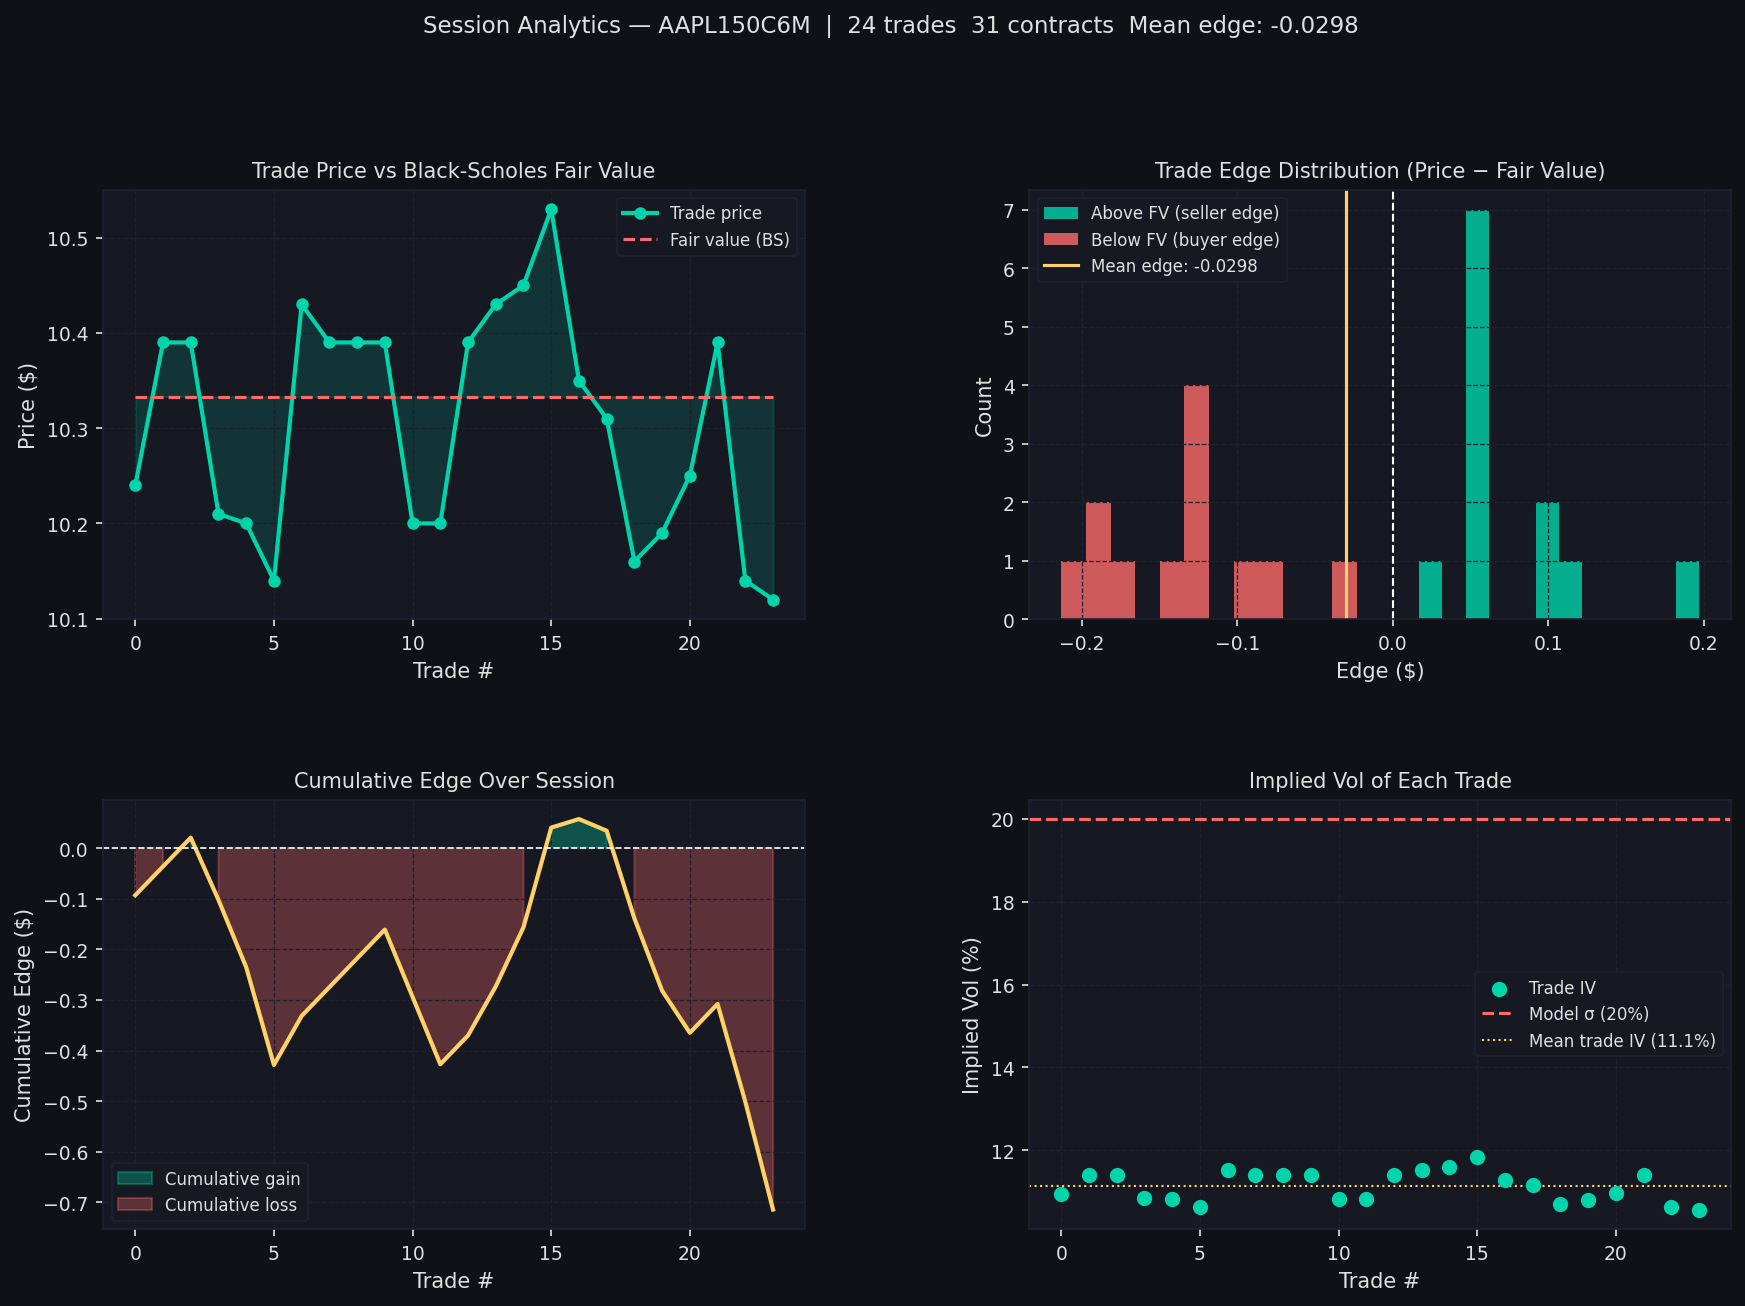
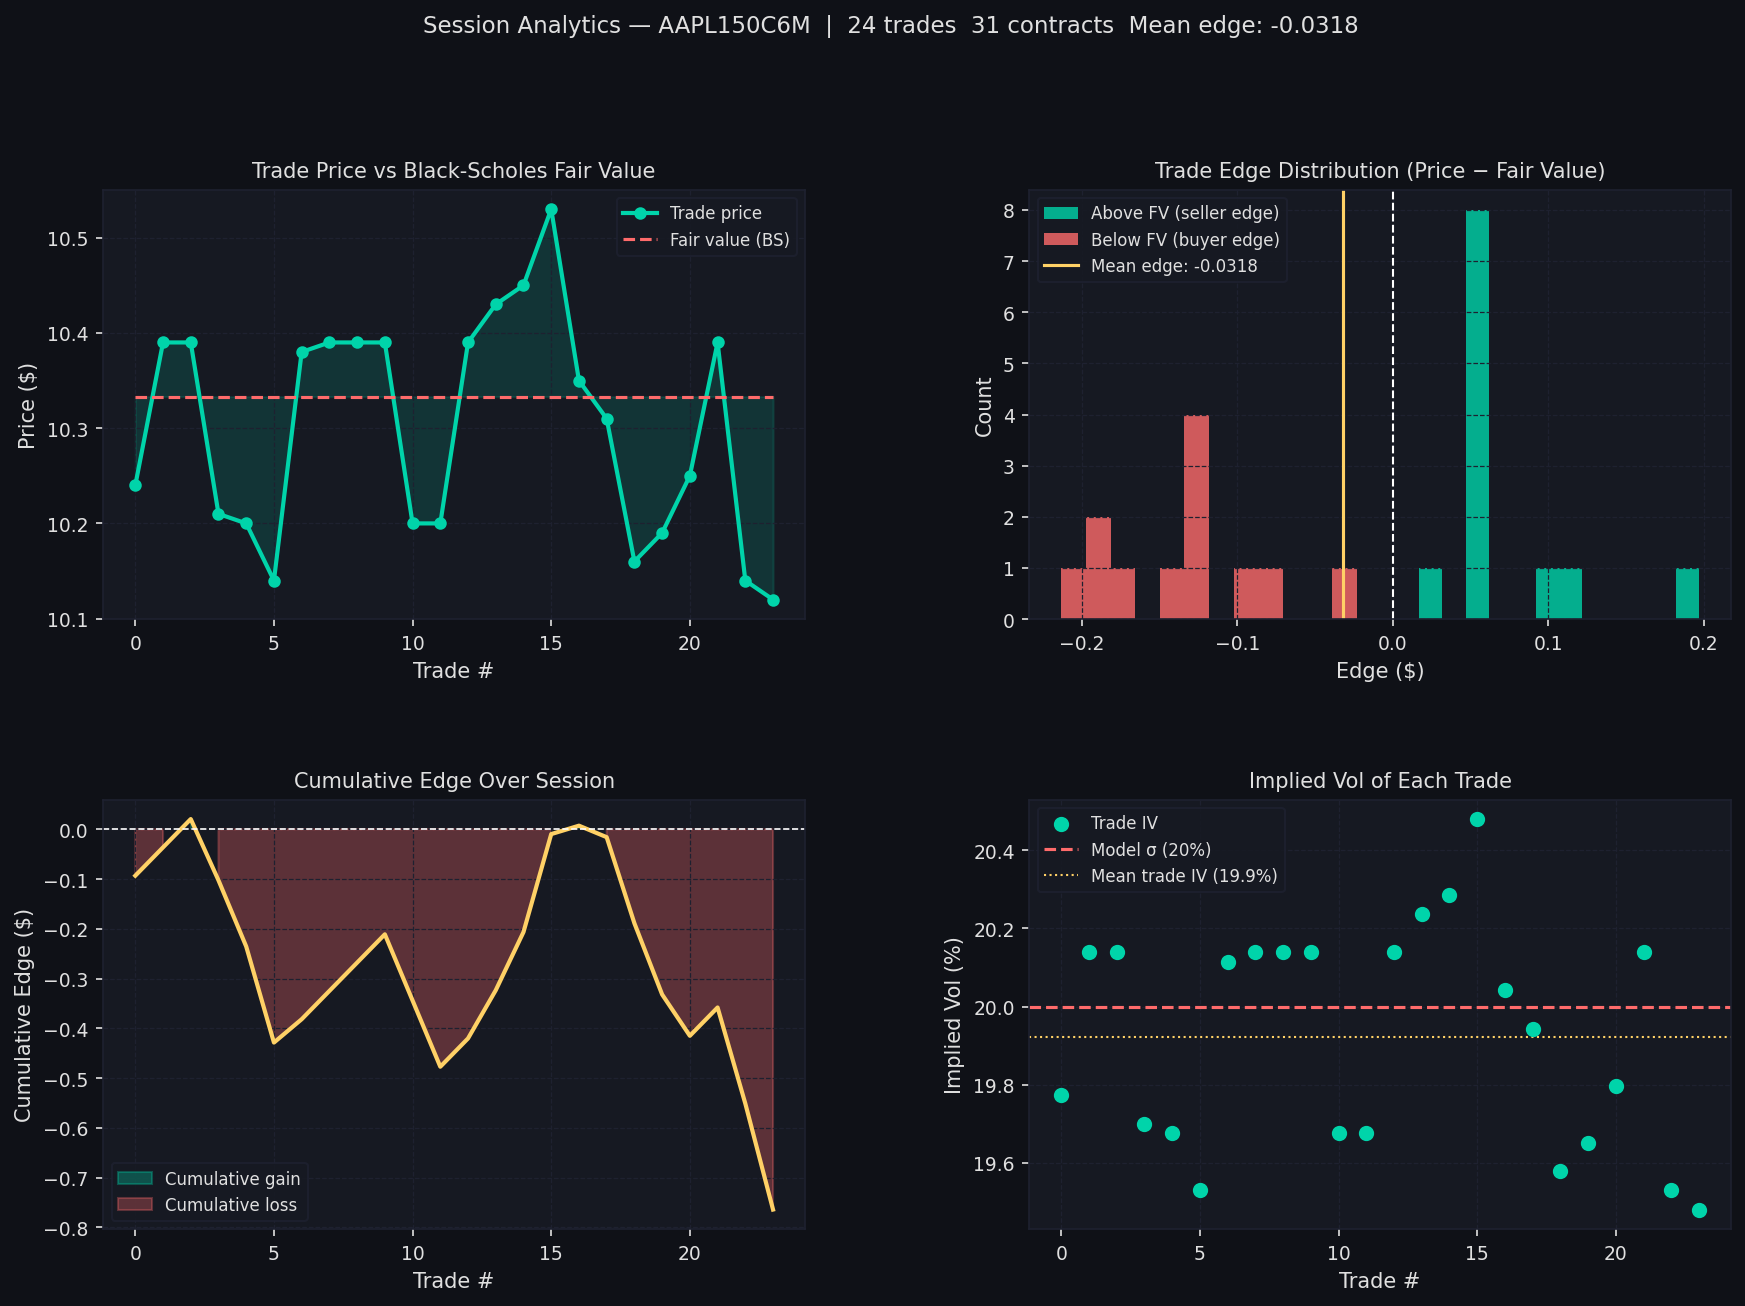
Result update

diff --git a/options_engine.py b/options_engine.py
@@ -479,7 +479,7 @@ def plot_market_analytics(market: OptionsMarket, symbol: str):
         color=TEXT, fontsize=11, y=1.01
     )
 
-    out = '/mnt/user-data/outputs/market_analytics.png'
+    out = 'market_analytics.png'
     plt.savefig(out, dpi=150, bbox_inches='tight',
                 facecolor=fig.get_facecolor())
     plt.close()